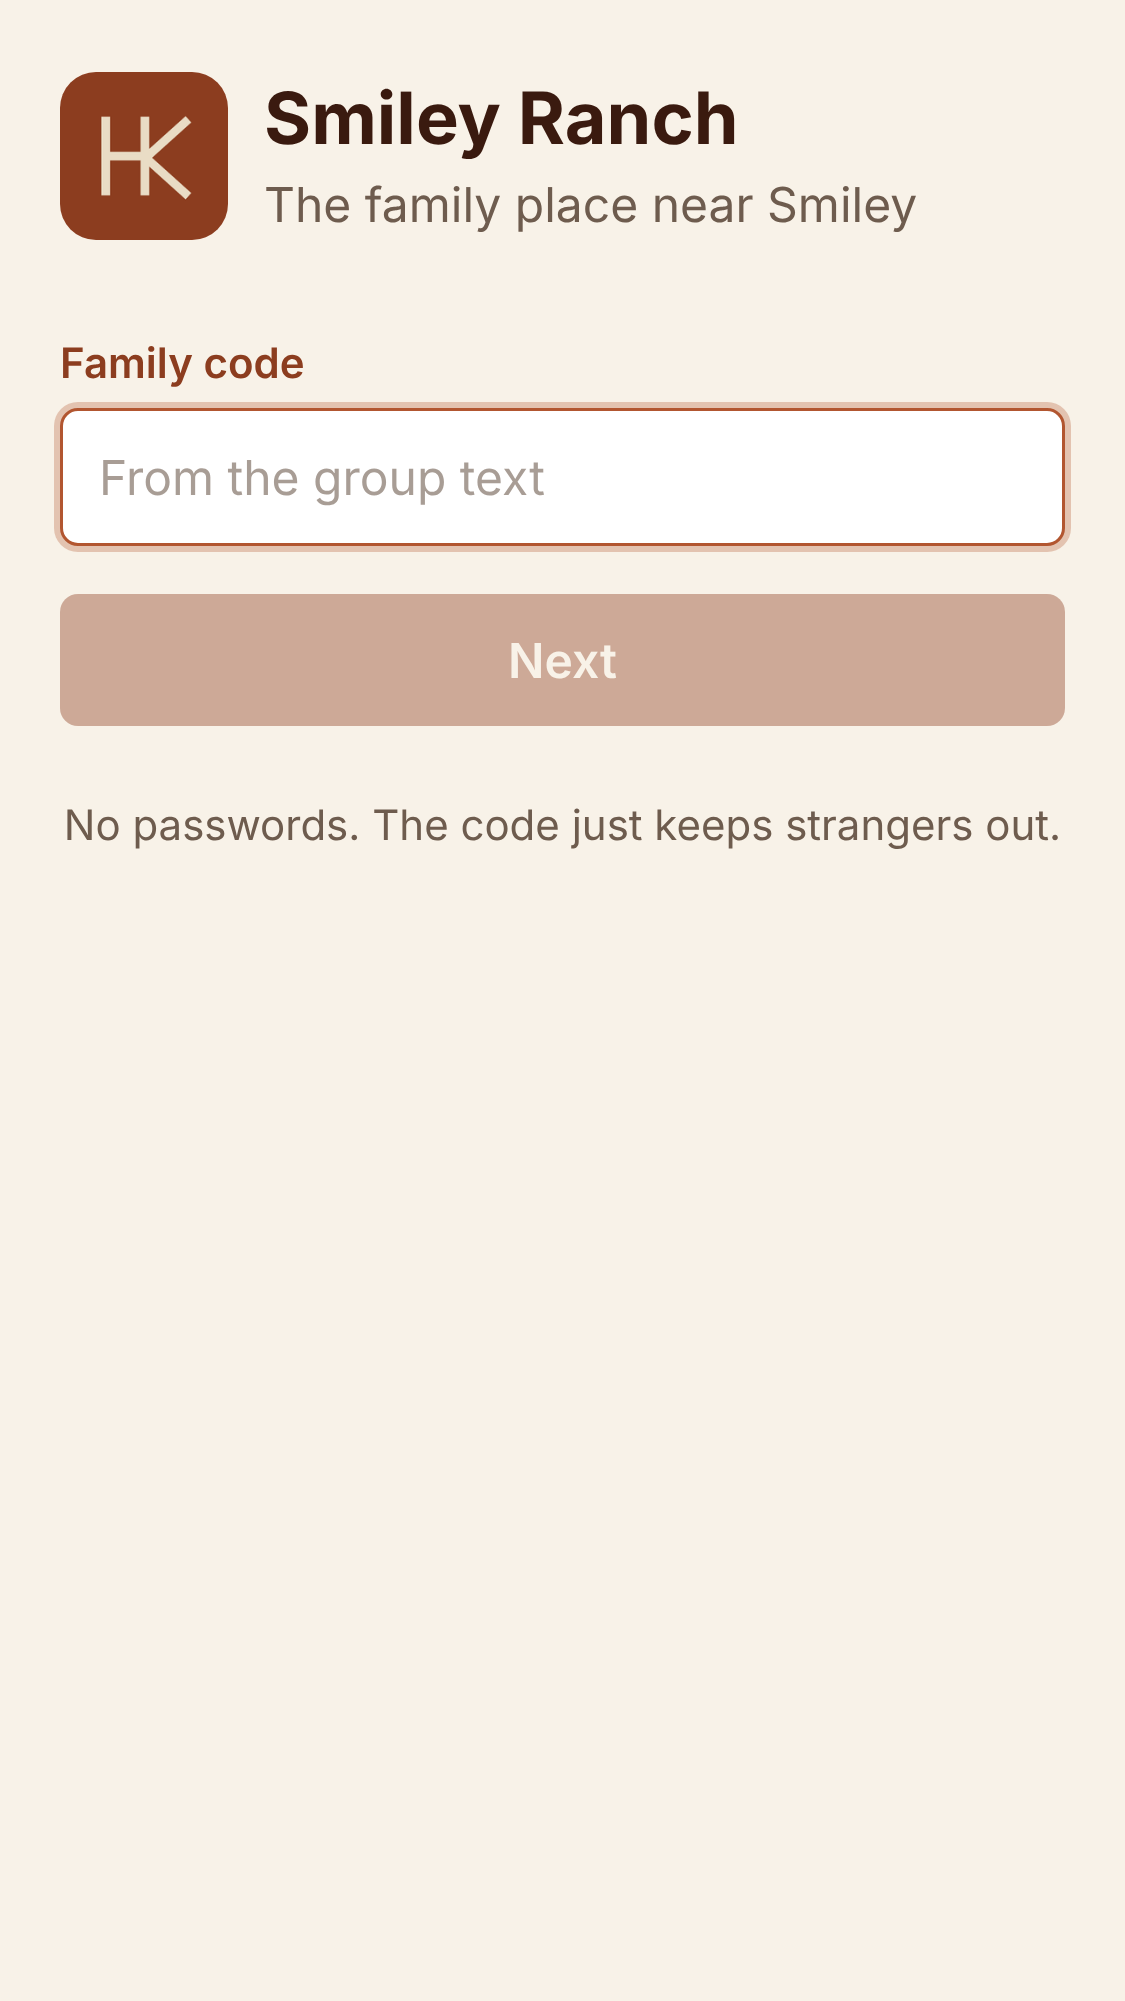
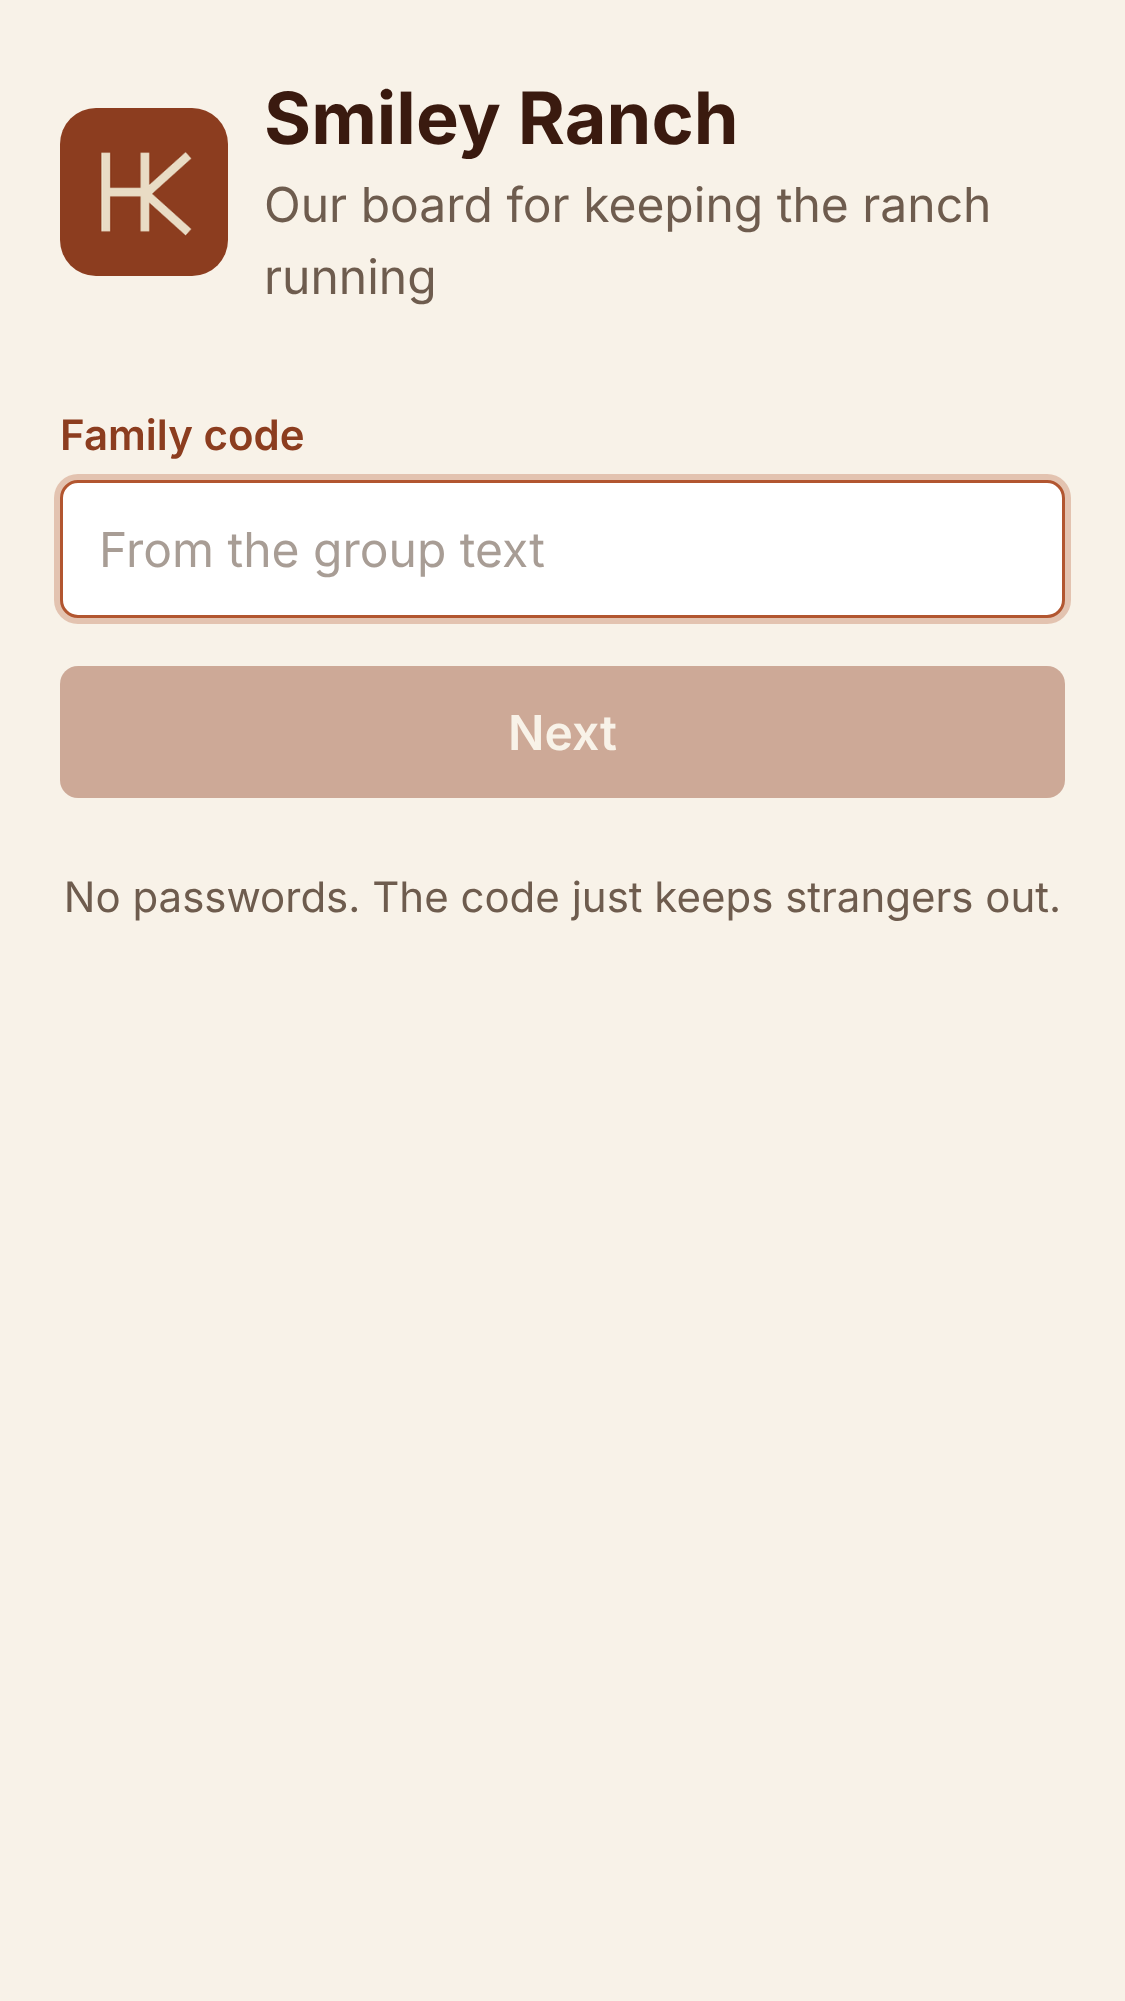
Home leads with Needs and Projects; quiet links instead of buttons
Sections now run Needs, Projects, trip, blinds that need a look,
property notes, emergency. The button row is a line of text links
(Blinds, Ranch info, Harvests, Equipment). Join and install screens
say what the app is for.

Claude-Session: https://claude.ai/code/session_01RjS6QfguHLSCFchmoCiRhY

Changed region(s): [[0.0311, 0.031, 0.9644, 0.4648]]

diff --git a/src/screens/Home.tsx b/src/screens/Home.tsx
@@ -119,60 +119,16 @@ export function Home() {
     <Screen title={`${settings?.property_name ?? 'Smiley Ranch'} · ${dateLabel}`} leading={<Brand size={34} />} hero={`${import.meta.env.BASE_URL}banner.jpg`}>
       {offline && <Note kind="warn" className="mb-3">No signal right now. Showing what we had last time.</Note>}
 
-      <div className="-mx-1 mb-4 flex gap-2 overflow-x-auto px-1 pb-1">
-        {([['Blinds', '/blinds'], ['Ranch info', '/info'], ['Property notes', '/log'], ['Equipment', '/equipment'], ['Harvests', '/harvests']] as const).map(([label, to]) => (
-          <button key={to} type="button" onClick={() => navigate(to)} className="tap shrink-0 rounded-md border border-tan-500 bg-white px-3 py-2 text-sm font-semibold text-clay-950 active:bg-tan-100">
-            {label}
-          </button>
+      <p className="mb-4 flex flex-wrap gap-x-3 gap-y-1 text-sm font-semibold text-clay-800">
+        {([['Blinds', '/blinds'], ['Ranch info', '/info'], ['Harvests', '/harvests'], ['Equipment', '/equipment']] as const).map(([label, to], i) => (
+          <span key={to} className="flex items-center gap-3">
+            {i > 0 && <span className="text-tan-500" aria-hidden>·</span>}
+            <button type="button" onClick={() => navigate(to)} className="tap !min-h-0 py-1 underline-offset-2 hover:underline">{label}</button>
+          </span>
         ))}
-      </div>
+      </p>
 
       <div className="space-y-6">
-        <Section title={stayIsNow ? 'At the ranch now' : 'Next trip'} action={<SectionLink onClick={() => navigate('/calendar')}>Calendar</SectionLink>}>
-          {!stay ? (
-            <p className="py-1 text-sm text-ink-muted">
-              Nothing on the calendar. <button type="button" className="font-semibold text-clay-900 underline" onClick={() => navigate('/calendar/new')}>Add a trip</button>
-            </p>
-          ) : (
-            <button type="button" onClick={() => navigate(`/calendar/${stay.id}`)} className="tap flex w-full items-start gap-3 py-1 text-left">
-              <span className="w-12 shrink-0 text-center leading-none">
-                <span className="block text-[10px] font-extrabold uppercase text-clay-800">{MONTHS[parseISODate(stay.starts_on).getMonth()]}</span>
-                <span className="block text-2xl font-extrabold text-clay-950">{parseISODate(stay.starts_on).getDate()}</span>
-              </span>
-              <span className="min-w-0 flex-1">
-                <span className="flex items-center gap-2">
-                  <span className="truncate text-lg font-bold text-clay-950">{stay.title}</span>
-                  <KindBadge kind={stay.kind} mine={stay.created_by === me.member_id} />
-                </span>
-                <span className="block text-sm text-ink">{fmtRange(stay.starts_on, stay.ends_on)} · {stayIsNow ? 'happening now' : relativeDay(stay.starts_on)}</span>
-                <span className="block text-sm text-ink-muted">
-                  {stayGoing.length === 0 ? `${nameOf(stay.created_by)} · nobody has said they're in yet` : `Going: ${stayGoing.map((a) => `${nameOf(a.member_id)}${(a.headcount ?? 1) > 1 ? ` +${a.headcount - 1}` : ''}`).join(', ')}`}
-                  {stayGoing.length > 0 && stay.kind === 'inclusive' && <span className={headcount > beds ? ' font-semibold text-alert' : ''}> · {headcount} {headcount === 1 ? 'person' : 'people'}, {beds} beds</span>}
-                </span>
-                {stay.notes && <span className="mt-1 block text-sm text-ink">{stay.notes.length > 100 ? stay.notes.slice(0, 100) + '…' : stay.notes}</span>}
-              </span>
-            </button>
-          )}
-          {upcoming.length > 0 && (
-            <ul className="mt-1 border-t border-tan-200 pt-1">
-              {upcoming.map((e) => (
-                <li key={e.id}>
-                  <button type="button" onClick={() => navigate(`/calendar/${e.id}`)} className="tap flex w-full items-center gap-3 py-1 text-left text-sm">
-                    <span className="w-12 shrink-0 text-center text-xs font-bold text-clay-800">{MONTHS[parseISODate(e.starts_on).getMonth()]} {parseISODate(e.starts_on).getDate()}</span>
-                    <span className="min-w-0 flex-1 truncate text-ink">{e.title}</span>
-                    <KindBadge kind={e.kind} mine={e.created_by === me.member_id} />
-                  </button>
-                </li>
-              ))}
-            </ul>
-          )}
-          {seasons.length > 0 && (
-            <button type="button" onClick={() => navigate('/calendar')} className="tap mt-1 w-full border-t border-tan-200 pt-2 text-left">
-              <SeasonSummary seasons={seasons} compact />
-            </button>
-          )}
-        </Section>
-
         <Section title="Needs" count={needs.length} action={<SectionLink onClick={() => setAdding('need')}>+ Add</SectionLink>}>
           {needs.length === 0 ? (
             <p className="py-1 text-sm text-ink-muted">Nothing on the list.</p>
@@ -221,6 +177,51 @@ export function Home() {
             </ul>
           )}
           {todos.length > 6 && <SectionLink onClick={() => navigate('/todos')}>{todos.length - 6} more open</SectionLink>}
+        </Section>
+
+        <Section title={stayIsNow ? 'At the ranch now' : 'Next trip'} action={<SectionLink onClick={() => navigate('/calendar')}>Calendar</SectionLink>}>
+          {!stay ? (
+            <p className="py-1 text-sm text-ink-muted">
+              Nothing on the calendar. <button type="button" className="font-semibold text-clay-900 underline" onClick={() => navigate('/calendar/new')}>Add a trip</button>
+            </p>
+          ) : (
+            <button type="button" onClick={() => navigate(`/calendar/${stay.id}`)} className="tap flex w-full items-start gap-3 py-1 text-left">
+              <span className="w-12 shrink-0 text-center leading-none">
+                <span className="block text-[10px] font-extrabold uppercase text-clay-800">{MONTHS[parseISODate(stay.starts_on).getMonth()]}</span>
+                <span className="block text-2xl font-extrabold text-clay-950">{parseISODate(stay.starts_on).getDate()}</span>
+              </span>
+              <span className="min-w-0 flex-1">
+                <span className="flex items-center gap-2">
+                  <span className="truncate text-lg font-bold text-clay-950">{stay.title}</span>
+                  <KindBadge kind={stay.kind} mine={stay.created_by === me.member_id} />
+                </span>
+                <span className="block text-sm text-ink">{fmtRange(stay.starts_on, stay.ends_on)} · {stayIsNow ? 'happening now' : relativeDay(stay.starts_on)}</span>
+                <span className="block text-sm text-ink-muted">
+                  {stayGoing.length === 0 ? `${nameOf(stay.created_by)} · nobody has said they're in yet` : `Going: ${stayGoing.map((a) => `${nameOf(a.member_id)}${(a.headcount ?? 1) > 1 ? ` +${a.headcount - 1}` : ''}`).join(', ')}`}
+                  {stayGoing.length > 0 && stay.kind === 'inclusive' && <span className={headcount > beds ? ' font-semibold text-alert' : ''}> · {headcount} {headcount === 1 ? 'person' : 'people'}, {beds} beds</span>}
+                </span>
+                {stay.notes && <span className="mt-1 block text-sm text-ink">{stay.notes.length > 100 ? stay.notes.slice(0, 100) + '…' : stay.notes}</span>}
+              </span>
+            </button>
+          )}
+          {upcoming.length > 0 && (
+            <ul className="mt-1 border-t border-tan-200 pt-1">
+              {upcoming.map((e) => (
+                <li key={e.id}>
+                  <button type="button" onClick={() => navigate(`/calendar/${e.id}`)} className="tap flex w-full items-center gap-3 py-1 text-left text-sm">
+                    <span className="w-12 shrink-0 text-center text-xs font-bold text-clay-800">{MONTHS[parseISODate(e.starts_on).getMonth()]} {parseISODate(e.starts_on).getDate()}</span>
+                    <span className="min-w-0 flex-1 truncate text-ink">{e.title}</span>
+                    <KindBadge kind={e.kind} mine={e.created_by === me.member_id} />
+                  </button>
+                </li>
+              ))}
+            </ul>
+          )}
+          {seasons.length > 0 && (
+            <button type="button" onClick={() => navigate('/calendar')} className="tap mt-1 w-full border-t border-tan-200 pt-2 text-left">
+              <SeasonSummary seasons={seasons} compact />
+            </button>
+          )}
         </Section>
 
         {(feedersDue.length > 0 || spotsWithIssues.length > 0) && (

diff --git a/src/screens/onboarding/InstallScreen.tsx b/src/screens/onboarding/InstallScreen.tsx
@@ -14,7 +14,7 @@ export function InstallScreen({ onContinue }: { onContinue: () => void }) {
         <img src={`${import.meta.env.BASE_URL}icons/icon-192.png`} alt="" width={56} height={56} className="rounded-xl" />
         <div>
           <h1 className="text-2xl font-bold text-clay-950">Smiley Ranch</h1>
-          <p className="text-ink-muted">Put it on your home screen</p>
+          <p className="text-ink-muted">Our board for keeping the ranch running. Put it on your home screen.</p>
         </div>
       </div>
 

diff --git a/src/screens/onboarding/JoinScreen.tsx b/src/screens/onboarding/JoinScreen.tsx
@@ -87,7 +87,7 @@ export function JoinScreen() {
         <img src={`${import.meta.env.BASE_URL}icons/icon-192.png`} alt="" width={56} height={56} className="rounded-xl" />
         <div>
           <h1 className="text-2xl font-bold text-clay-950">Smiley Ranch</h1>
-          <p className="text-ink-muted">The family place near Smiley</p>
+          <p className="text-ink-muted">Our board for keeping the ranch running</p>
         </div>
       </div>
       <form onSubmit={submitCode} className="space-y-4">
